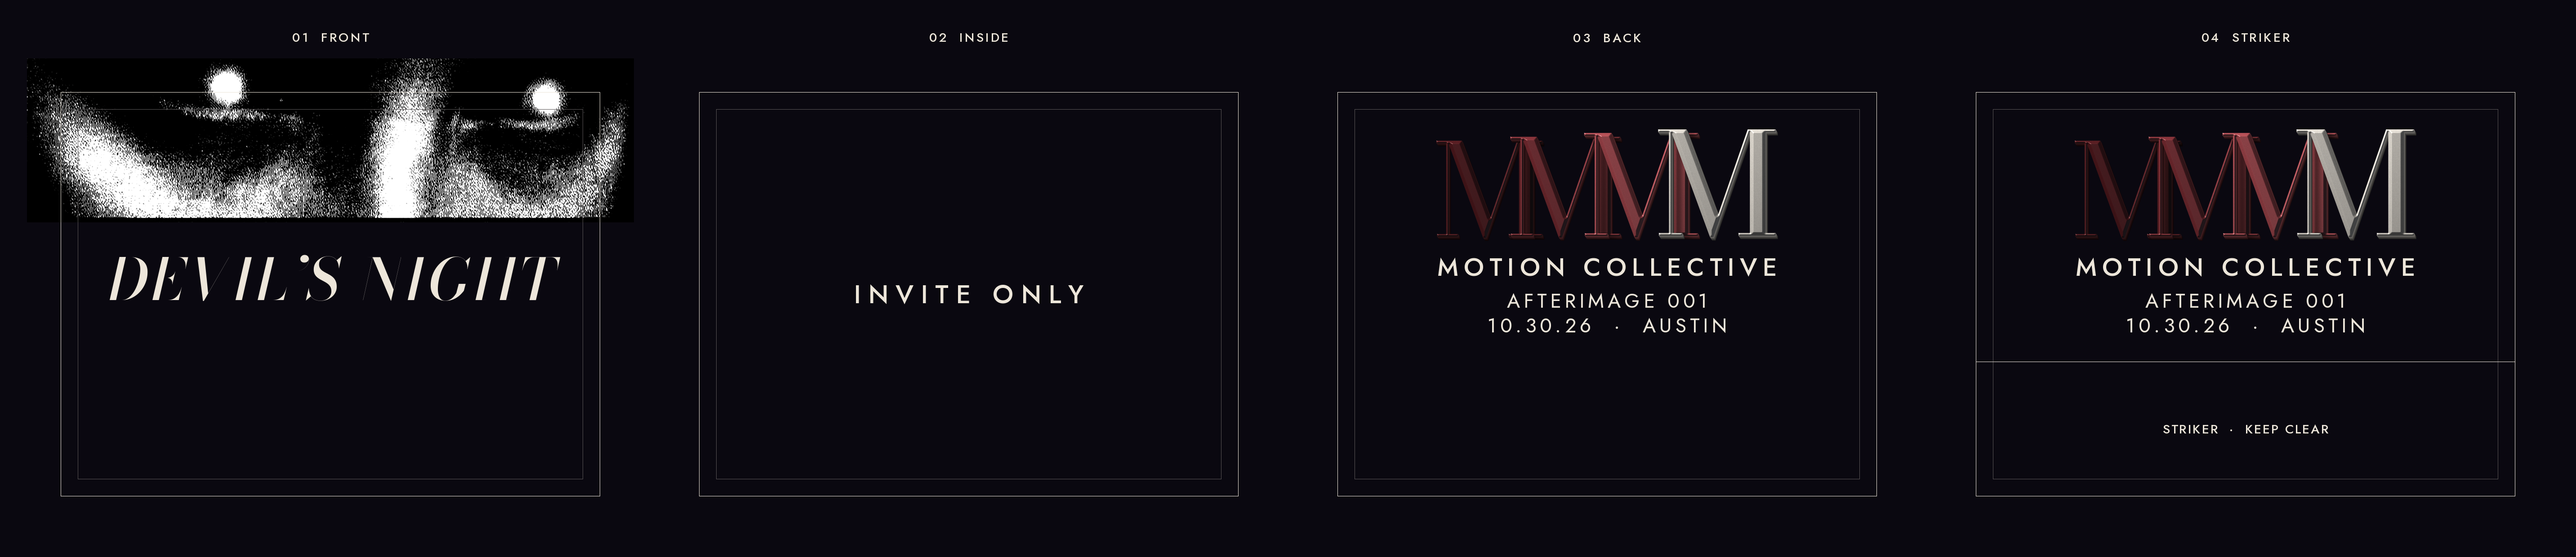
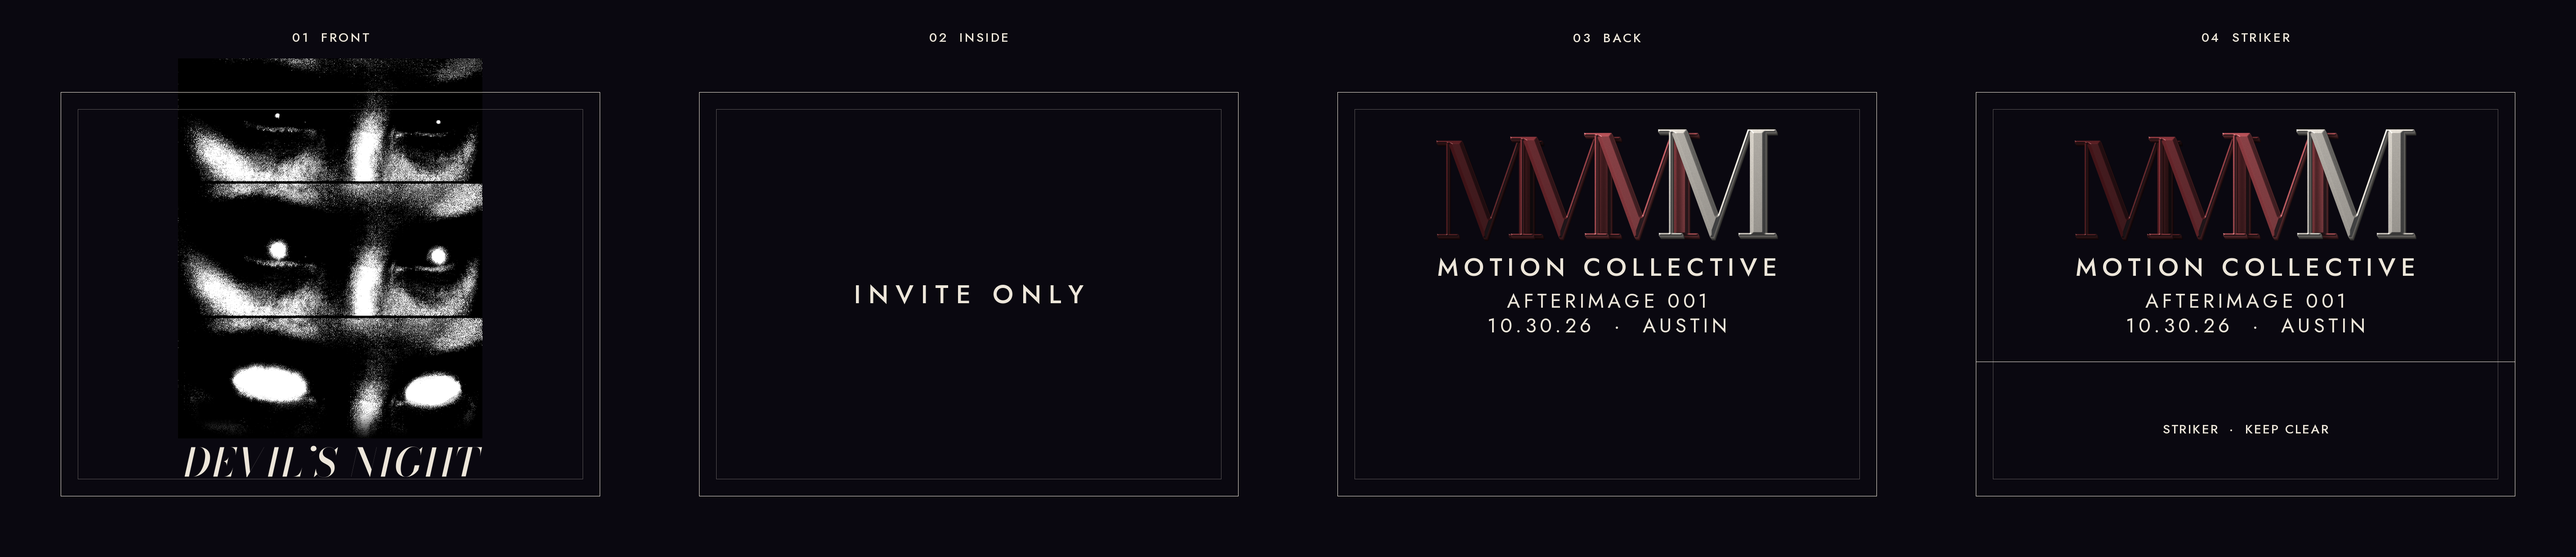
Fit the full eyes triptych on the matchbook front.
All three frames stay uncropped, centered, with Devil's Night on the void underneath.

diff --git a/media/matchbooks/src/render_matchbook.py b/media/matchbooks/src/render_matchbook.py
@@ -34,12 +34,8 @@ BONE = (237, 230, 218)
 # Proof marks only. Never on a print plate.
 GUIDE = (237, 230, 218)
 
-# Middle frame of the triptych (the glow). Full source width, so the cheeks
-# are not cropped. The three-frame stack is taller than this cover once the
-# face is held at the trim width.
-# Ends on the triptych's own black rule (source y 916–920) so the plate
-# meets the void in black. No fade — a dissolve would read as fog.
-EYE_CROP = (0, 630, 1080, 922)
+# Full triptych. Scaled to the height left above the name so all three
+# frames stay intact. Sides stay uncropped; the void field fills the rest.
 
 
 def px(inches: float) -> int:
@@ -125,15 +121,9 @@ def new_plate() -> Image.Image:
     return Image.new("RGBA", (W, H), VOID + (255,))
 
 
-def eyes_plate() -> tuple[Image.Image, int]:
-    src = Image.open(EYES).convert("RGB").crop(EYE_CROP)
-    # Force a neutral black-and-white plate. No grade, no red.
-    bw = src.convert("L").convert("RGB")
-    scaled_h = int(round(bw.height * (W / bw.width)))
-    bw = bw.resize((W, scaled_h), Image.Resampling.LANCZOS)
-    plate = new_plate()
-    plate.paste(bw.convert("RGBA"), (0, 0))
-    return plate, scaled_h
+def eyes_bw() -> Image.Image:
+    # Full triptych, neutral black and white. No grade, no red, no crop.
+    return Image.open(EYES).convert("L").convert("RGB")
 
 
 def fit_mark(max_w: int) -> Image.Image:
@@ -165,37 +155,53 @@ def assert_inside(bbox: tuple[int, int, int, int], box: tuple[int, int, int, int
 
 
 def build_front(fonts: dict) -> tuple[Image.Image, dict]:
-    plate, eye_h = eyes_plate()
-    # Title sits in the void under the photograph, centered in that band
-    # and kept inside the safe box.
-    probe = fonts["display"].getbbox("DEVIL’S NIGHT")
-    title_h = probe[3] - probe[1]
-    # Caption sits just under the photograph. The rest of the cover is quiet margin.
-    band_center_y = eye_h + 72 + title_h / 2
-    bbox = draw_tracked(
-        plate,
-        "DEVIL’S NIGHT",
-        (W / 2, band_center_y),
-        fonts["display"],
-        BONE,
-        tracking=6,
-    )
-    assert_inside(bbox, SAFE_BOX, "DEVIL’S NIGHT")
-    if bbox[1] < eye_h:
+    """All three frames, then the name on the void under them."""
+    title = "DEVIL’S NIGHT"
+    src = eyes_bw()
+    gap = 16
+    tracking = 3
+    bottom = SAFE_BOX[3] - 4
+    # Largest name that still leaves the whole triptych above it.
+    bodoni = fonts["display"].path
+    chosen: tuple | None = None
+    for size in range(96, 55, -2):
+        font = ImageFont.truetype(bodoni, size)
+        probe = font.getbbox(title)
+        title_h = probe[3] - probe[1]
+        image_h = bottom - gap - title_h
+        image_w = int(round(src.width * (image_h / src.height)))
+        if image_w > W or image_h < 1:
+            continue
+        if text_width(font, title, tracking) > image_w - 8:
+            continue
+        chosen = (size, font, image_w, image_h, title_h)
+        break
+    if chosen is None:
+        raise SystemExit("DEVIL’S NIGHT does not fit under the triptych")
+    size, font, image_w, image_h, title_h = chosen
+    fitted = src.resize((image_w, image_h), Image.Resampling.LANCZOS)
+    plate = new_plate()
+    origin_x = (W - image_w) // 2
+    plate.paste(fitted.convert("RGBA"), (origin_x, 0))
+    center_y = image_h + gap + title_h / 2
+    bbox = draw_tracked(plate, title, (W / 2, center_y), font, BONE, tracking)
+    assert_inside(bbox, SAFE_BOX, title)
+    if bbox[1] < image_h:
         raise SystemExit("title overlaps the photograph")
     spec = {
         "surface": "front",
-        "eyes_crop_source_px": list(EYE_CROP),
-        "eyes_placed": [0, 0, W, eye_h],
+        "eyes": "full triptych, uncropped",
+        "eyes_source_px": [src.width, src.height],
+        "eyes_placed": [origin_x, 0, image_w, image_h],
         "title": {
-            "text": "DEVIL’S NIGHT",
+            "text": title,
             "font": "Bodoni Moda italic, opsz 96, wght 500",
-            "size_px": 128,
-            "size_pt": round(128 / DPI * 72, 2),
-            "tracking_px": 6,
+            "size_px": size,
+            "size_pt": round(size / DPI * 72, 2),
+            "tracking_px": tracking,
             "color": "#EDE6DA",
             "ink_bbox": list(bbox),
-            "center": [W / 2, band_center_y],
+            "center": [W / 2, center_y],
         },
     }
     return plate, spec

diff --git a/media/matchbooks/SPEC.md b/media/matchbooks/SPEC.md
@@ -19,7 +19,7 @@ Same family as the matchbox: the photographic eyes, then Bodoni; the dimensional
 | Bone | `#EDE6DA` | |
 | Type | Bodoni Moda italic (opsz 96, weight 500) and Jost | no other faces |
 | Mark | `media/brand/MOTION_mark_3d.png` | the dimensional MMMM, not redrawn |
-| Eyes | `media/flyers/final_v6/eyes_hc.png` | middle frame only, see front |
+| Eyes | `media/flyers/final_v6/eyes_hc.png` | full triptych, uncropped |
 
 Red on the back plate measures **2.89%** of the frame (oxblood trail on the mark). The eyes are neutral black and white. No red tint.
 
@@ -27,11 +27,11 @@ Rebuild: `python3 media/matchbooks/src/render_matchbook.py`. Numbers below are w
 
 ## 1. Front cover
 
-The middle frame of the triptych, full width, both eyes and the cheeks. The pinprick frame and the blown-oval frame do not fit above the name once the face is held at the trim width. Cropping the sides to squeeze all three frames in would cut the face off. If a taller dieline arrives, use the full stack and keep this width rule.
+The whole eyes triptych, all three frames, then the name on the void under the stack. The photograph is scaled to the height left above the name and centered. The cheeks are not cropped. Void fills the side fields. Top of the photograph runs into the top bleed.
 
-- Source crop: x 0–1080, y 630–922. That ends on the frame's own black rule, so the photograph meets the void in black.
-- Placed at x 0, y 0, 1350 × 365 px. Full bleed left and right. Top of the photograph runs into the top bleed.
-- `DEVIL’S NIGHT` in Bodoni Moda italic, 128 px (15.36 pt), bone, tracking 6 px. Ink box x 183–1187, y 437–541. Center (675, 489). On the void, under the photograph, inside the safe box. Nothing else.
+- Source: `eyes_hc.png`, 1080 × 1350, no crop. Pinprick, glow, and blown oval all stay.
+- Placed at x 336, y 0, 677 × 846 px.
+- `DEVIL’S NIGHT` in Bodoni Moda italic, 86 px (10.32 pt), bone, tracking 3 px. Ink box x 350–1013, y 862–933. Center (675, 897.5). On the void, under the photograph, inside the safe box. Nothing else.
 
 ## 2. Inside front
 
@@ -76,4 +76,4 @@ These stay open until the vendor's dieline is the authority:
 - Bleed and safe, if the vendor's numbers differ from 0.125 in and 0.0625 in.
 - Imposition. Do not force this estimate onto a different dieline. Change the constants in `src/render_matchbook.py` and rebuild.
 
-If the new trim is tall enough that the full triptych can sit at this face width with the name still on void, switch the front crop to the whole `eyes_hc.png` stack. Do not crop the cheeks to make the stack fit.
+The front already uses the whole `eyes_hc.png` stack. A new trim refits that stack to the height above the name. Do not crop the cheeks.

diff --git a/orch/tasks/outbox/MATCHBOOK_2026-10-21_result.md b/orch/tasks/outbox/MATCHBOOK_2026-10-21_result.md
@@ -4,7 +4,7 @@
 
 ## What
 
-20-strike fold-over matchbook art in the matchbox family. Eyes on the front, dimensional MMMM on the back, one inside line, striker left clear.
+20-strike fold-over matchbook art in the matchbox family. Full eyes triptych on the front with Devil’s Night on the void underneath, dimensional MMMM on the back, one inside line, striker left clear.
 
 ## Files
 
@@ -19,7 +19,7 @@
 
 ## Verify
 
-Script checks: title stays off the photograph and inside the safe box, back type stays above the striker, striker pixels are void, oxblood on the back is 2.89% of the plate. Plates were opened and read at full pixel size.
+Script checks: the full 1080 × 1350 triptych is uncropped, the title stays off the photograph and inside the safe box, back type stays above the striker, striker pixels are void, oxblood on the back is 2.89% of the plate. Front placed at x 336, y 0, 677 × 846. Title ink x 350–1013, y 862–933, 86 px (10.32 pt). The trim crop was opened and read: pinprick, glow, and blown oval all read, and the name sits under them.
 
 ## Proposed SoT
 

diff --git a/media/matchbooks/README.md b/media/matchbooks/README.md
@@ -8,7 +8,7 @@ Draft artwork for 100 full-color 20-strike matchbooks. Not ordered. Not uploaded
 2. Edit the constants at the top of `src/render_matchbook.py` (`TRIM_W_IN`, `TRIM_H_IN`, `STRIKER_H_IN`, bleed, safe).
 3. Run `python3 media/matchbooks/src/render_matchbook.py`.
 4. Open the three `*_600dpi.png` print files at full size. The striker proof and the assembly are for checking, not for the vendor's upload slot.
-5. If the new cover is tall enough, put the whole eyes triptych on the front and keep the face at the full trim width. Do not crop the sides of the face to force the stack.
+5. The front already places the whole eyes triptych above `DEVIL’S NIGHT`. A new trim refits that stack. Do not crop the sides of the face.
 
 ## Do not
 
